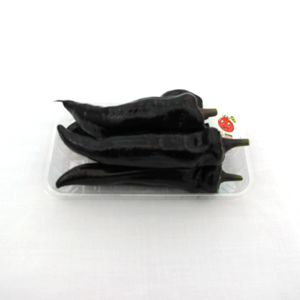
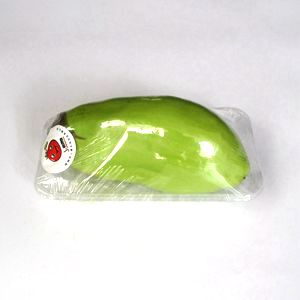
m

diff --git a/sx/greens.html b/sx/greens.html
@@ -66,8 +66,8 @@ layout: sxBase
        <a href="">
          <img src="{{ site.url }}/image/sx/ls6.jpg"/>         
        </a>
-       <p class="name">紫甜椒</p>
-       <p class="group">￥0元/500克</p>
+       <p class="name">旱黄瓜</p>
+       <p class="group">￥7元/500克</p>
      </div>
      <div>
        <a href="">
@@ -123,8 +123,8 @@ layout: sxBase
        <a href="">
          <img src="{{ site.url }}/image/sx/ls5.jpg"/>         
        </a>
-       <p class="name">黑尖椒</p>
-       <p class="group">￥元/</p>
+       <p class="name">绿茄子</p>
+       <p class="group">￥4元/500克</p>
      </div>
     <div>
        <a href="">
